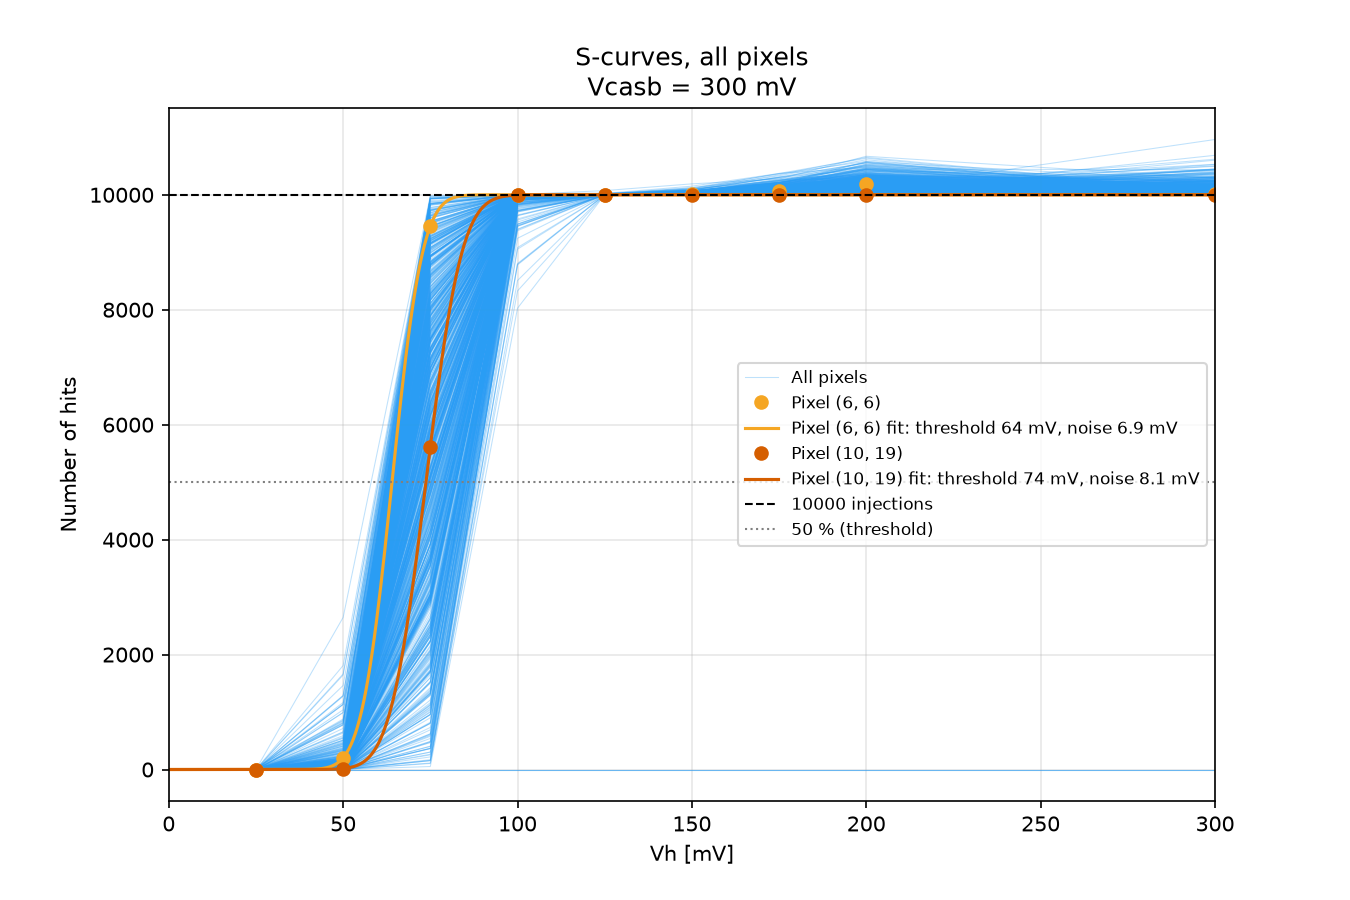
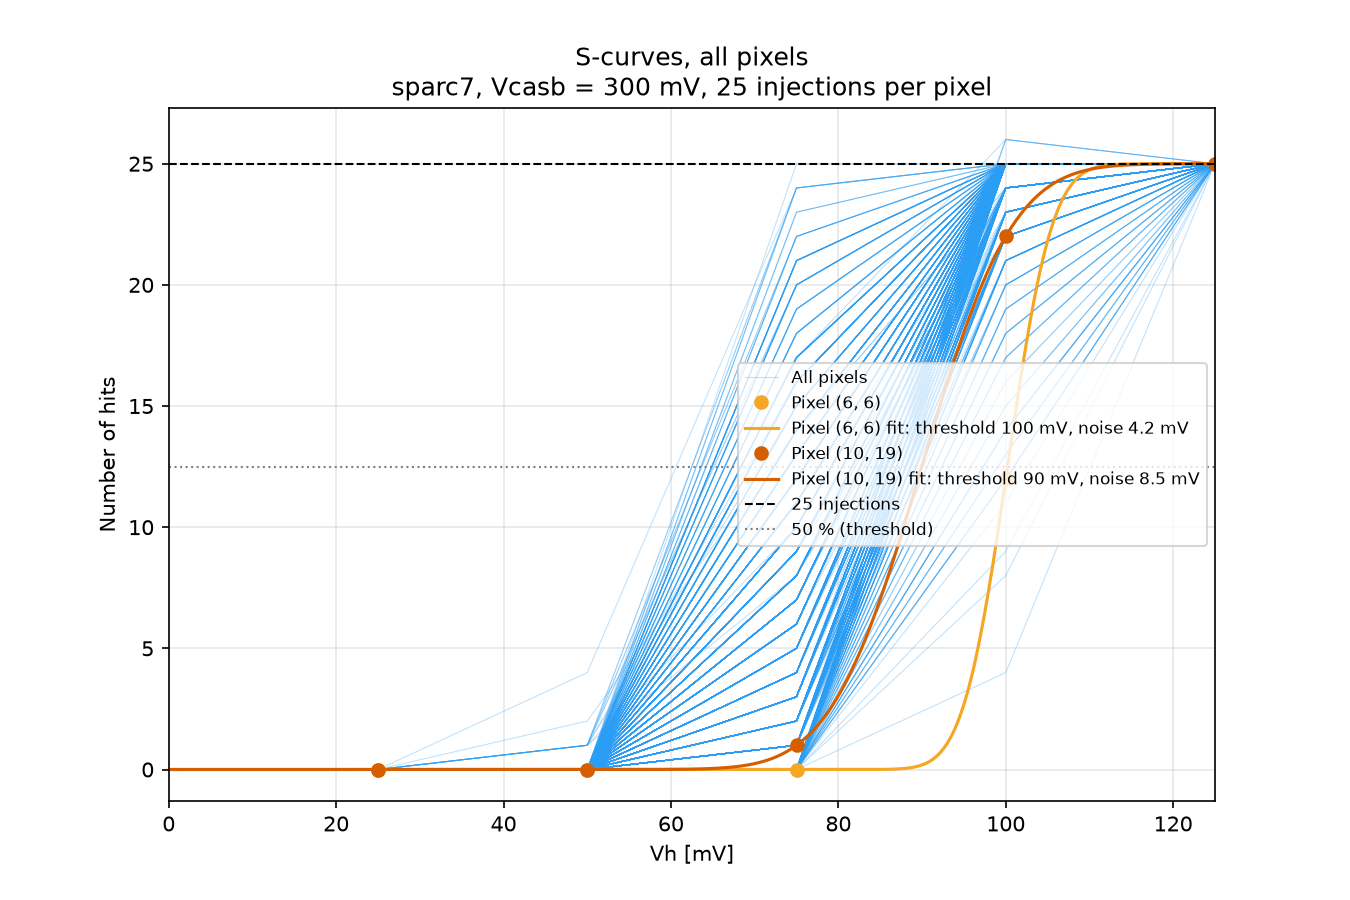
Cleaned up

diff --git a/analysis/Injections/s_curve.py b/analysis/Injections/s_curve.py
@@ -5,27 +5,31 @@ import numpy as np
 from scipy.optimize import curve_fit
 from scipy.special import erf
 
-from injection_scan import fit_scan, PLOT_DIR, NROWS, NCOLS, N_INJECTIONS, DATA_VCASB, DATA_VH
+from injection_scan import fit_scan, complete_vh, ROOT, NROWS, NCOLS
 
 """
 S-curves: the number of hits of every pixel vs the injection voltage Vh, around the threshold.
 Each pixel's S-curve is fitted with an error function; its 50 % point is the pixel's threshold and its width
-the noise (both in mV of Vh).
+the noise (both in mV of Vh). The Vcasb and the Vh values are read from the file names in DATA; only Vh values
+whose pixel files are all there are used, so this also works while a scan is still running.
 """
 
-Vcasb = DATA_VCASB
-VH_VALUES = DATA_VH
-
-SETTINGS = f"Vcasb = {Vcasb} mV"
-TAG = f"vcasb_{Vcasb}_vh_scan"
-
-VH_MAX = 300  # mV, the S-curve plot and the fits only go up to here: the threshold is far below, and at high Vh
-              # pixels lose hits because of the decoder's ToT upper limit, not because they are inefficient
+#-----------Settings-----------
+DATA = ROOT / "data" / "sparc7" / "s_curve_full"     
+OUTPUT_DIR = ROOT / "plots" / "sparc7" / "s_curve"  
+N_INJECTIONS = 25  
+VH_MAX = 300      
 HIGHLIGHT = [(6, 6), (10, 19)]  # (col, row), the same pixels as in ToT_vh.py
 HIGHLIGHT_COLORS = ["#f5a623", "#d55e00"]
+#------------------------------
 
-OUTPUT_DIR = PLOT_DIR / "s_curve"
-OUTPUT_DIR.mkdir(parents=True, exist_ok=True)
+
+#-----The Vcasb of the scan-----
+def find_vcasb():
+    vcasbs = {int(f.name.split("_vcasb_")[1].split("_")[0]) for f in DATA.glob("data_run_vcasb_*_vh_*_px_*.raw")}
+    if len(vcasbs) != 1:
+        raise SystemExit(f"Expected the files of one Vcasb in {DATA}, found {sorted(vcasbs) or 'none'}")
+    return vcasbs.pop()
 
 
 #-----S-curve: 0 hits far below the threshold, N_INJECTIONS far above it-----
@@ -33,47 +37,44 @@ def s_curve(vh, threshold, noise):
     return 0.5 * N_INJECTIONS * (1 + erf((vh - threshold) / (np.sqrt(2) * noise)))
 
 
-# Fits one pixel's hits vs Vh (Vh <= VH_MAX). Returns (threshold, noise) in mV, or (nan, nan) if the fit fails.
+# Fits one pixel's hits vs Vh. Returns (threshold, noise) in mV, or (nan, nan) if the pixel never crosses 50 %.
 def fit_s_curve(vh, hits):
-    sel = (vh <= VH_MAX) & ~np.isnan(hits)
-    x = vh[sel]
+    ok = ~np.isnan(hits)
+    x = vh[ok]
     # extra hits from double pulsing (a few % above N_INJECTIONS) would pull the fit, so cap at N_INJECTIONS
-    y = np.minimum(hits[sel], N_INJECTIONS)
+    y = np.minimum(hits[ok], N_INJECTIONS)
     if y.max() < 0.5 * N_INJECTIONS or y.min() > 0.5 * N_INJECTIONS:
         return np.nan, np.nan
     first_above = x[np.argmax(y >= 0.5 * N_INJECTIONS)]
     try:
-        popt, _ = curve_fit(s_curve, x, y, p0=[first_above, 10], bounds=([0, 0.1], [VH_MAX, VH_MAX]))
+        popt, _ = curve_fit(s_curve, x, y, p0=[first_above, 10], bounds=([0, 0.1], [x.max(), x.max()]))
     except RuntimeError:
         return np.nan, np.nan
     return popt
 
 
 #-----------All S-curves on top of each other, the HIGHLIGHT pixels with their fit------------
-def plot_s_curves(hits, thresholds, noises):
-    vh = np.array(VH_VALUES)
-    sel = vh <= VH_MAX
+def plot_s_curves(vh, hits, thresholds, noises, title, output_file):
     plt.figure('S-curves', figsize=(9, 6))
     for row in range(NROWS):
         for col in range(NCOLS):
-            plt.plot(vh[sel], hits[sel, row, col], color='#2a9df4', linewidth=0.5, alpha=0.3,
+            plt.plot(vh, hits[:, row, col], color='#2a9df4', linewidth=0.5, alpha=0.3,
                      label='All pixels' if (row, col) == (0, 0) else None)
-    x_fit = np.linspace(0, VH_MAX, 500)
+    x_fit = np.linspace(0, vh.max(), 500)
     for (col, row), color in zip(HIGHLIGHT, HIGHLIGHT_COLORS):
-        plt.plot(vh[sel], hits[sel, row, col], 'o', color=color, ms=6, label=f'Pixel ({col}, {row})')
+        plt.plot(vh, hits[:, row, col], 'o', color=color, ms=6, label=f'Pixel ({col}, {row})')
         thr, noise = thresholds[row, col], noises[row, col]
         if not np.isnan(thr):
             plt.plot(x_fit, s_curve(x_fit, thr, noise), '-', color=color, linewidth=1.5,
                      label=f'Pixel ({col}, {row}) fit: threshold {thr:.0f} mV, noise {noise:.1f} mV')
     plt.axhline(N_INJECTIONS, color='black', linestyle='--', linewidth=1, label=f'{N_INJECTIONS} injections')
     plt.axhline(0.5 * N_INJECTIONS, color='gray', linestyle=':', linewidth=1, label='50 % (threshold)')
-    plt.xlim(0, VH_MAX)
+    plt.xlim(0, vh.max())
     plt.xlabel('Vh [mV]')
     plt.ylabel('Number of hits')
-    plt.title(f'S-curves, all pixels\n{SETTINGS}')
+    plt.title(title)
     plt.legend(loc='center right', fontsize=8)
     plt.grid(alpha=0.3)
-    output_file = OUTPUT_DIR / f's_curves_{TAG}.png'
     plt.savefig(output_file, dpi=150)
     plt.close()
     print(f"Saved {output_file}")
@@ -81,23 +82,33 @@ def plot_s_curves(hits, thresholds, noises):
 
 #-----------Main function where we call everything-----------
 def main():
-    scan = fit_scan([(Vcasb, vh) for vh in VH_VALUES], f"vcasb_{Vcasb}_vh_scan")
+    vcasb = find_vcasb()
+    vh_values = [vh for vh in complete_vh(DATA, vcasb) if vh <= VH_MAX]
+    if not vh_values:
+        raise SystemExit(f"No complete Vh values (up to {VH_MAX} mV) in {DATA} yet")
+    print(f"{DATA}: Vcasb = {vcasb} mV, complete Vh values {vh_values}")
+
+    scan = fit_scan([(vcasb, vh) for vh in vh_values], f"vcasb_{vcasb}_vh_scan", data_dir=DATA)
     hits = scan["nhits"]  # indexed [vh, row, col]
 
-    vh = np.array(VH_VALUES, dtype=float)
+    vh = np.array(vh_values, dtype=float)
     thresholds = np.full((NROWS, NCOLS), np.nan)
     noises = np.full((NROWS, NCOLS), np.nan)
     for row in range(NROWS):
         for col in range(NCOLS):
             thresholds[row, col], noises[row, col] = fit_s_curve(vh, hits[:, row, col])
+
     ok = ~np.isnan(thresholds)
-    print(f"S-curve fits: {ok.sum()} of {ok.size} pixels; threshold median {np.median(thresholds[ok]):.1f} mV "
-          f"(16-84 %: {np.percentile(thresholds[ok], 16):.1f}-{np.percentile(thresholds[ok], 84):.1f} mV), "
-          f"noise median {np.median(noises[ok]):.1f} mV")
+    if not ok.any():
+        print(f"S-curve fits: none, no pixel reaches 50 % of its {N_INJECTIONS} injections")
+    else:
+        print(f"S-curve fits: {ok.sum()} of {ok.size} pixels; threshold median {np.median(thresholds[ok]):.1f} mV "
+              f"(16-84 %: {np.percentile(thresholds[ok], 16):.1f}-{np.percentile(thresholds[ok], 84):.1f} mV), "
+              f"noise median {np.median(noises[ok]):.1f} mV")
 
-    plot_s_curves(hits, thresholds, noises)
-
-    print(f"\n{'=' * 70}\nANALYSIS FINISHED\n{'=' * 70}")
+    OUTPUT_DIR.mkdir(parents=True, exist_ok=True)
+    title = f"S-curves, all pixels\n{DATA.parent.name}/{DATA.name}, Vcasb = {vcasb} mV, {N_INJECTIONS} injections per pixel"
+    plot_s_curves(vh, hits, thresholds, noises, title, OUTPUT_DIR / f"s_curves_{DATA.name}_vcasb_{vcasb}.png")
 
 
 if __name__ == "__main__":

diff --git a/analysis/Injections/ToT_vh.py b/analysis/Injections/ToT_vh.py
@@ -6,7 +6,7 @@ import sys
 
 from scipy.optimize import curve_fit
 from injection_scan import (fit_scan, jitter_scatter, load_run, DATA_DIR, PLOT_DIR, NROWS, NCOLS, N_INJECTIONS, DATA_VH,
-                            EXTRA_DATASETS, fit_dataset)
+                            EXTRA_DATASETS, fit_dataset, CHIPS, chip_data_dir, chip_plot_dir)
 
 """
 Plots the ToT vs Vh for a fixed Vcasb.
@@ -16,7 +16,8 @@ and the other data sets in EXTRA_DATASETS in injection_scan.py (old data, Ireset
 """
 
 # On the command line: a Vcasb for the standard data, "python ToT_vh.py 250" (300 if nothing is given),
-# or the name of one of the EXTRA_DATASETS, e.g. "python ToT_vh.py ireset" or "python ToT_vh.py pd250".
+# a chip name for that chip's pulse duration 250 scan, "python ToT_vh.py sparc7",
+# or the name of one of the EXTRA_DATASETS, e.g. "python ToT_vh.py ireset".
 ARG = sys.argv[1] if len(sys.argv) > 1 else "300"
 if ARG in EXTRA_DATASETS:
     DATASET = EXTRA_DATASETS[ARG]
@@ -26,6 +27,14 @@ if ARG in EXTRA_DATASETS:
     SETTINGS = f"{DATASET['label']}, VCASB = {VCASB} mV"
     FILE_TAG = f"{DATASET['tag']}_vcasb_{VCASB}"
     OUTPUT_DIR = DATASET["plot_dir"]
+elif ARG in CHIPS:
+    DATASET = None
+    VCASB = 300
+    VH_VALUES = DATA_VH
+    DATA = chip_data_dir(ARG)
+    SETTINGS = f"{ARG}, VCASB = {VCASB} mV"
+    FILE_TAG = f"vcasb_{VCASB}"
+    OUTPUT_DIR = chip_plot_dir(ARG) / "tot_vh"
 else:
     DATASET = None
     VCASB = int(ARG)
@@ -35,7 +44,6 @@ else:
     FILE_TAG = f"vcasb_{VCASB}"
     OUTPUT_DIR = PLOT_DIR / "tot_vh"
 
-# (6, 6) is near the top of the ToT range of the chip, (10, 19) near the bottom (about 0.7 x the ToT of (6, 6))
 HIGHLIGHT = [(6, 6), (10, 19)]
 DOT_SIZE = 14  # marker size of the "All pixels" dots (one per pixel)
 HIGHLIGHT_COLORS = ["#f5a623", "#d55e00", "#8c3a00"]  # light, dark and darker orange, one per HIGHLIGHT pixel
@@ -126,7 +134,7 @@ def plot_all_pixels(means, all_hits=False):
                 plt.plot(x0 + rng.uniform(-w, w, hits.size), hits, ".", color=color, ms=1.5, mew=0, alpha=0.3,
                          rasterized=True)
             # a legend entry with a visible marker, the hits themselves are tiny and transparent
-            plt.plot([], [], "o", color=color, ms=6, label=f"Pixel ({col}, {row}), all hits")
+            plt.plot([], [], "o", color=color, ms=6, label=f"Pixel ({col}, {row})")
 
         popt = fit_surrogate(vh.astype(float), tot)
         if popt is None:
@@ -145,9 +153,9 @@ def plot_all_pixels(means, all_hits=False):
     plt.xlabel("Vh [mV]")
     plt.ylabel("ToT [µs]" if all_hits else "Mean ToT [µs]")
     title = f"Mean ToT vs VH, pixels with {N_INJECTIONS} +- {HITS_TOLERANCE:.0%} hits" if FULL_HITS_ONLY else "Mean ToT vs VH, all pixels"
-    if all_hits:
-        title = "ToT vs VH: mean ToT of all pixels, every hit of the highlighted pixels"
-    plt.title(f"{title}\n{SETTINGS}")
+    # if all_hits:
+    #     title = "ToT vs VH: mean ToT of all pixels, every hit of the highlighted pixels"
+    # plt.title(f"{title}\n{SETTINGS}")
     # the pixels first, then the fits
     handles, labels = plt.gca().get_legend_handles_labels()
     order = sorted(range(len(labels)), key=lambda k: labels[k].endswith(" fit"))
@@ -163,7 +171,7 @@ def plot_all_pixels(means, all_hits=False):
 
 #-----------Main function where we call everything-----------
 def main():
-    scan = fit_dataset(ARG) if DATASET else fit_scan([(VCASB, vh) for vh in VH_VALUES], f"vcasb_{VCASB}_vh_scan")
+    scan = fit_dataset(ARG) if DATASET else fit_scan([(VCASB, vh) for vh in VH_VALUES], f"vcasb_{VCASB}_vh_scan", data_dir=DATA)
     means, nhits = scan["means"].copy(), scan["nhits"]  # indexed [vh, row, col]
 
     noisy = find_noisy_pixels(nhits)

diff --git a/analysis/Injections/injection_scan.py b/analysis/Injections/injection_scan.py
@@ -31,6 +31,18 @@ SCAN_VH = [25, 50, 75, 100, 125, 150, 175, 200, 300, 400, 500, 600, 700, 800, 90
 DATA_VCASB = 300
 DATA_VH = SCAN_VH  
 
+# The pulse duration 250 Vh scan of each chip (Vcasb = 300 mV, the Vh values in DATA_VH), selectable by chip name
+# in the scripts, e.g. "python ToT_vh.py sparc7". Each chip has its data in data/<chip>/injection_pd_250 and its
+# plots in plots/<chip>/.
+CHIPS = ["sparc0", "sparc7"]
+
+def chip_data_dir(chip):
+    return ROOT / "data" / chip / "injection_pd_250"
+
+def chip_plot_dir(chip):
+    return ROOT / "plots" / chip
+
+
 # Older injection data sets, each a Vh scan at one Vcasb in its own folder, selectable in the scripts by name.
 # "vh_scan" lists the Vh values that are complete (see fit_dataset).
 EXTRA_DATASETS = {
@@ -40,6 +52,19 @@ EXTRA_DATASETS = {
                "vh_scan": SCAN_VH, "tag": "ireset_70pA", "plot_dir": OLD_PLOT_DIR / "Ireset70pa"},
 }
 
+
+
+#-------The Vh values of a scan whose pixel files are all there, for a scan that may still be running------
+# A Vh only counts once all NROWS * NCOLS files exist and the newest of them is older than a minute,
+# so a file that is still being written is not read.
+def complete_vh(data_dir, vcasb):
+    import time
+    files = {}
+    for f in Path(data_dir).glob(f"data_run_vcasb_{vcasb}_vh_*_px_*.raw"):
+        vh = int(f.name.split("_vh_")[1].split("_px_")[0])
+        files.setdefault(vh, []).append(f.stat().st_mtime)
+    return sorted(vh for vh, times in files.items()
+                  if len(times) == NROWS * NCOLS and time.time() - max(times) > 60)
 
 
 #-------Reads the raw file and loads hitmap etc------
@@ -119,9 +144,19 @@ def _fit_run(args):
 # "nhits" (hits in the injected pixel), plus "nfiles" [setting] = how many pixel files were found.
 # Results are cached in CACHE_DIR/<name>.npz and reused as long as the settings are the same, so use a
 # different name for data from another data_dir.
+# The cache folder of a data folder: its path below data/, e.g. "sparc7/injection_pd_250", so that the same scan of
+# two chips (data/sparc0/injection_pd_250 and data/sparc7/injection_pd_250) never shares a cache
+def cache_folder(data_dir):
+    data_dir = Path(data_dir).resolve()
+    try:
+        return data_dir.relative_to(ROOT / "data")
+    except ValueError:
+        return Path(*data_dir.parts[-2:])
+
+
 def fit_scan(settings, name, data_dir=DATA_DIR):
     settings = [tuple(s) for s in settings]
-    cache_file = CACHE_DIR / Path(data_dir).name / f"{name}.npz"
+    cache_file = CACHE_DIR / cache_folder(data_dir) / f"{name}.npz"
     if cache_file.exists():
         cache = np.load(cache_file)
         if [tuple(s) for s in cache["settings"].tolist()] == settings:

diff --git a/injection_scan_sl.py b/injection_scan_sl.py
@@ -31,10 +31,12 @@ ctrl.constellation.launch()
 ctrl.await_state(SatelliteState.ORBIT, timeout=30)
 
 # Reconfigure output directory
-ctrl.constellation.MessagePackWriter.SPARC.reconfigure({"output_directory": f"/home/teleuser/Nellie/data/{chip}/s_curve"})
+# ctrl.constellation.MessagePackWriter.SPARC.reconfigure({"output_directory": f"/home/teleuser/Nellie/data/{chip}/s_curve_300"})
+ctrl.constellation.MessagePackWriter.SPARC.reconfigure({"output_directory": f"/home/teleuser/Nellie/data/{chip}/s_curve_full"})
 ctrl.await_state(SatelliteState.ORBIT, timeout=5)
 
-def scan_iteration(vcasb: float, vh: float) -> None:
+# cols: the columns to scan, all of them if not given
+def scan_iteration(vcasb: float, vh: float, cols=None) -> None:
     ctrl.log.status(f"Reconfiguring vcasb to {vcasb} mV and vh to {vh} mV")
 
     # Reconfigure
@@ -42,7 +44,7 @@ def scan_iteration(vcasb: float, vh: float) -> None:
     ctrl.constellation.Caribou.SPARC.reconfigure(recfg)
     ctrl.await_state(SatelliteState.ORBIT)
 
-    for col in range(sparc_masking_generator.NCOLS):
+    for col in (range(sparc_masking_generator.NCOLS) if cols is None else cols):
         for row in range(sparc_masking_generator.NROWS):
             ctrl.log.status(f"Reconfiguring active pixel to ({col}, {row})")
 
@@ -83,9 +85,15 @@ def scan_iteration(vcasb: float, vh: float) -> None:
 #    for vh in list(range(25, 225, 25)) + list(range(300, 1300, 100)):
 #        scan_iteration(vcasb, vh)
 
+#-------------S-curve-------------
 for vh in list(range(25, 130, 5)):
-    scan_iteration(180, vh)
+    scan_iteration(300, vh)
+#---------------------------------
 
+# #-------------Rerun of Vh = 900 mV for sparc7: columns 14-18 had ToT about twice too long-------------
+# for vh in [900]:
+#     scan_iteration(300, vh)  # columns 14 to 18
+#-----------------------------------------------------------------------------------------------------
 
 # Land
 ctrl.constellation.land()
